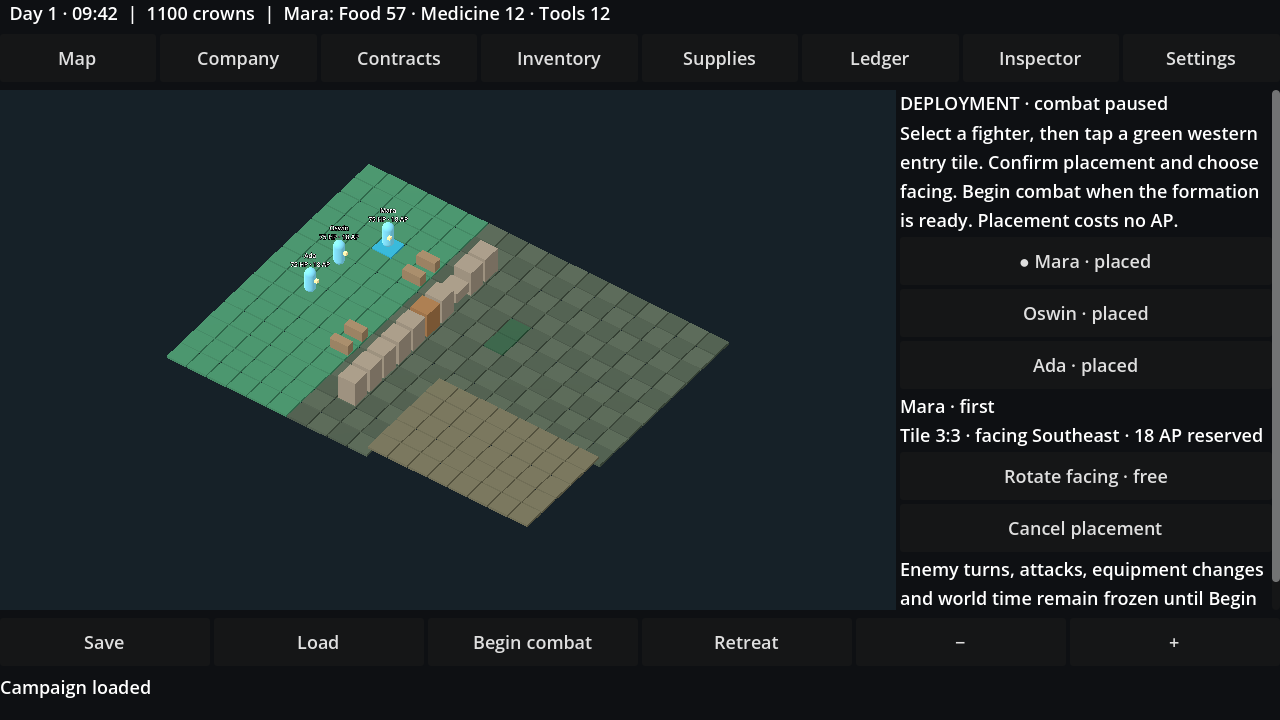
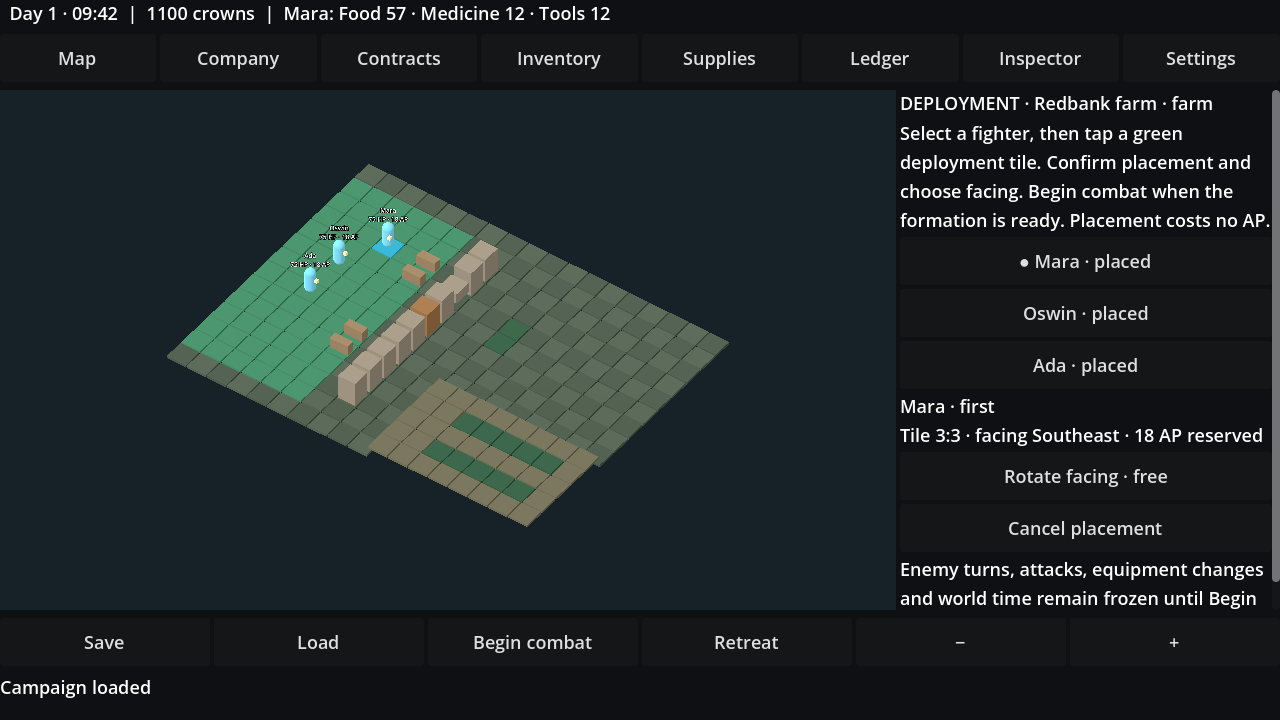
Add Phase 2 persistent sector layouts and authored deployment zones

diff --git a/QA_REPORT.md b/QA_REPORT.md
@@ -5,7 +5,8 @@
 | Check | Result |
 |---|---|
 | Godot 4.6.2 standard import / script execution | Passed |
-| Deterministic mechanical/integration suite | 291 passed, 0 failed |
+| Deterministic mechanical/integration suite | 365 passed, 0 failed |
+| Phase 2 maps | 74 new checks: four geometry signatures, spawn connectivity, formation save/load, legal company and garrison victories on each map, real door actions, retreat/re-entry loot/terrain, reinforcement collisions, metadata validation and legacy retention |
 | Phase 1 deployment | 39 new checks: placement/facing, AP/RNG/clock freeze, illegal actions, canonical saved formations, combined squads/full garrison, no-space recovery and legacy combat continuation |
 | Desktop rendered UI scenario | 0 failures; real buttons and selection callbacks, no battle-result injection |
 | First legal-action contract battle | Victory in 3 simulation-driver rounds for seed 731; casualties are retained |
@@ -23,7 +24,7 @@
 | Physical Android / emulator | Not run: no adb device or installed emulator available |
 | Remote CI | Configuration supplied; not dispatched or observed |
 
-Rendered strategic, inventory, supplies, garrison, contract-board and deployment screenshots were inspected. They show actual runtime geometry and controls. Controls use 48-unit minimum button heights and scrolling panels. These observations do not establish hardware touch comfort or safe-area support.
+Rendered strategic, inventory, supplies, garrison, contract-board, deployment and four authored-map screenshots were inspected. They show actual runtime geometry and controls. Controls use 48-unit minimum button heights and scrolling panels. These observations do not establish hardware touch comfort or safe-area support.
 
 ## Repairs verified during development
 
@@ -43,8 +44,10 @@ This is not comprehensive coverage of the master contract. Buildings, full fog, 
 
 UI automation runs on desktop and uses pointer events plus selection methods. The first walkthrough covers item management, local supply deposit/load and capture. The second starts with one existing enemy group placed a sector from Ashford as a documented test fixture; all recruitment, stocking, company travel, clock advances, garrison deployment, combat, aid and save/load then use normal controls. The existing group advances through real strategic AI; no victory or payment is injected. A third quiet-road fixture removes hostile forces and then uses normal controls to accept an escort/patrol, travel through ordered stops, save/load mid-route, deliver freight and return for patrol payment. The second also accepts and earns a settlement defence posting. Company and garrison contacts now use actual placement, save/load and Begin combat controls before fighting. Company facing is changed through its free setup control. This is not physical Android touch evidence. Android interruption and disk-failure injection remain untested. Schema 1→2→3 migrations, ownership/canonical profiles and basic geometry validation are checked; arbitrary malformed-data coverage is not exhaustive.
 
-The continuity suite verifies legal death/looting, retreat, save/re-entry and exact hostile identity/condition. The logistics/defence suite adds 66 checks for separate stores, local skills, conserved migration, garrison profiles and control/casualty consequences. It includes legal enemy attacks causing actual levy deaths, continued home defence after retreat, garrison-only legal-action victories, legacy undeployed reserves and deterministic incapacitation fixtures for capture/defeat edges. Existing rule coverage remains in the expanded 291-check suite. The contracts suite adds 44 checks for all six objective types, exact delivery and idempotency, ordered patrol return, saved road/combat progress, off-site target tracking, actual camp combat, garrison defence payments, ownership loss, deadline failure, withdrawal/defeat/disbanding freight loss, repeat posting cooldown and malformed objective data. A neutralized target remains pending while its actual battle awaits resolution.
+The continuity suite verifies legal death/looting, retreat, save/re-entry and exact hostile identity/condition. The logistics/defence suite adds 66 checks for separate stores, local skills, conserved migration, garrison profiles and control/casualty consequences. It includes legal enemy attacks causing actual levy deaths, continued home defence after retreat, garrison-only legal-action victories, legacy undeployed reserves and deterministic incapacitation fixtures for capture/defeat edges. Existing rule coverage remains in the expanded 365-check suite. The contracts suite adds 44 checks for all six objective types, exact delivery and idempotency, ordered patrol return, saved road/combat progress, off-site target tracking, actual camp combat, garrison defence payments, ownership loss, deadline failure, withdrawal/defeat/disbanding freight loss, repeat posting cooldown and malformed objective data. A neutralized target remains pending while its actual battle awaits resolution.
 
 Final acceptance: gates C/D pass for the delivered slice. Gate E is pending hardware validation and Gate F remains incomplete. Follow IMPLEMENTATION_PLAN.md before extending acceptance claims.
 
-Phase 1 changes only deployment on the existing encounter template. Phase 2 sector-specific map layouts have not been implemented or claimed. Older schema-1/2 tactical fixtures and an old-shape schema-3 active save resume combat without placement or AP resets. A blocked-entry fixture remains unconfirmed, survives save/load and can withdraw.
+Phase 1 changes only deployment on the existing encounter template. Phase 2 adds four facility archetypes and wilderness terrain fallbacks. A controlled three-fighter/two-hostile fixture and a separate three-levy defence each win through legal simulation actions on every facility archetype. Door persistence uses a documented adjacency fixture followed by the actual door action; unique loot is placed as a controlled ground-item fixture and then persists through real retreat, saving, travel and re-entry. Reinforcement tests retain existing hostile positions while allocating free authored spawns. Older schema-1/2 tactical fixtures and an old-shape schema-3 active save resume combat without placement or AP resets. A blocked-entry fixture remains unconfirmed, survives save/load and can withdraw.
+
+The rendered UI suite additionally opens each facility archetype as a controlled contact fixture, selects a legal tile through the 3D picker, confirms placement, saves/loads the formation, begins combat and executes a paid movement through normal controls. These gallery fixtures do not inject wins. Existing normal-control battles continue on farm and settlement layouts. Android hardware evidence remains unavailable.

diff --git a/IMPLEMENTATION_PLAN.md b/IMPLEMENTATION_PLAN.md
@@ -19,9 +19,9 @@ The production contract is larger than the delivered slice. Preserve working int
 
 1. **Android interaction/device gate.** Install supplied APK on mainstream hardware. Test touch select/confirm/cancel, scroll, two-finger pan/zoom, cutouts, pause/resume, OS interruption and low-memory behaviour. Measure frame pacing and input latency; record hardware and results. Device QA is currently an external blocker.
 2. **State model hardening — core ownership/logistics complete.** Item identities, condition/transfers, squad/sector supply stores and schema-1→2→3 migrations are implemented and verified. Conservation, local access, canonical references and basic terrain validation are in place. Remaining: typed assignment/financial/event records, broader malformed-data tests and disk-interruption injection.
-3. **Strategic battle continuity — core defence complete.** Persistent battlefields/enemies, adjacent withdrawal, encounter queueing, tactical levies and combined friendly squads are implemented and tested. Remaining: prisoner interactions beyond the captured flag, levy equipment management beyond their starting kit, fortification design and sector-specific geography.
+3. **Strategic battle continuity — core defence complete.** Persistent battlefields/enemies, adjacent withdrawal, encounter queueing, tactical levies and combined friendly squads are implemented and tested. Remaining: prisoner interactions beyond the captured flag, levy equipment management beyond their starting kit, fortification design and broader sector geography.
 4. **Job breadth — core objectives complete.** Capture, elimination, occupied camp assault, escort, patrol and settlement defence use actual state hooks with prerequisites, counters, failures, exclusive deadlines and idempotent ledger payments. Escort/patrol repost after one day. Remaining: independently targetable caravan cart/driver, broader procedural postings and route-risk balancing. Current escort is strategic freight tied to its squad. Existing campaigns retain their board; new worlds include Briar camp.
-5. **Tactical depth.** Phase 1 deployment is complete: validated western entry placement/facing, frozen setup, explicit confirmation and unconfirmed save/load for company and garrison forces. Phase 2 is next: sector-specific maps and authored entry zones, preserving local terrain/loot and checking deployment on each layout. Remaining tactical work includes disengage action, exploration/combat transition, AP carryover policy, injury locations/severity, equipment drawing/turn costs, distinct projectile ammunition, throwing items, explicit shield condition, directional geometry-derived cover, lighting and true terrain fog. Add roofs, interiors and persistent ground items.
+5. **Tactical depth.** Phase 1 deployment is complete: validated western entry placement/facing, frozen setup, explicit confirmation and unconfirmed save/load for company and garrison forces. Phase 2 is complete for four original facility archetypes and terrain-based wilderness: authored zones/spawn pools, persistent terrain/loot, legacy map retention and company/garrison combat on each layout. Further map work includes roofs, more settlement variants, fortification construction and authored directional approaches. Remaining tactical work includes disengage action, exploration/combat transition, AP carryover policy, injury locations/severity, equipment drawing/turn costs, distinct projectile ammunition, throwing items, explicit shield condition, directional geometry-derived cover, lighting and true terrain fog. Add roofs, interiors and persistent ground items.
 6. **AI depth.** Improve cover choice, failed pursuit, formations, ally defence, role coordination, sound prioritisation and morale behaviour. Add strategic resources, reinforcement budgets, threat response and patrol objectives. Current factions have simple daily movement; friendly defended sectors now use real tactical battles.
 7. **Scale and tests.** Profile 160×160 pathfinding, visibility and rendering. Replace repeated open-list sorting with a heap if measurements require it. Extend the ten scenarios to every mandatory rule and run multi-seed extended campaigns. Add hardware Android smoke CI when available.
 8. **Source audit/parity.** Inspect remaining source systems listed in SOURCE_AUDIT.md, document exact preserved-rule expectations and differences. Keep all new implementation independent. Obtain rights review before any commercial release.
@@ -31,10 +31,10 @@ The production contract is larger than the delivered slice. Preserve working int
 | Gate | Observed status |
 |---|---|
 | A — systems exist | Pass for implemented slice; incomplete across full contract |
-| B — individual verification | 291 passing assertions for covered rules; incomplete full mechanical matrix |
+| B — individual verification | 365 passing assertions for covered rules; incomplete full mechanical matrix |
 | C — integration | Pass for recruitment/equipment/travel/combat/payment/recovery/persistence slice |
 | D — playable game loop | Desktop normal-control scenario passes; second battle verified through legal rules driver |
 | E — mobile functional | APK produced and package/signature checked; device/touch verification outstanding, **not passed** |
 | F — full foundation | **Not passed**; mandatory systems above remain open |
 
-Phase 1 deployment is implemented and verified. Phase 2 sector-specific maps remains separate and unstarted; begin it when authorized. Never mark the full foundation complete by lowering its definition.
+Phase 1 deployment is implemented and verified. Phase 2 sector-specific maps is implemented and verified for the documented archetypes. Continue with the remaining tactical/AI depth or device gate; the full foundation remains incomplete. Never mark the full foundation complete by lowering its definition.

diff --git a/GAME_SPEC.md b/GAME_SPEC.md
@@ -20,9 +20,11 @@ Recruiting a levy costs 80 crowns and creates a persistent original spear/padded
 
 ## Tactical rules
 
-New contacts begin in a deployment phase. Default friendly positions are reviewed before combat. Placement is restricted to unblocked tiles in the western six columns, unoccupied except by the selected fighter and at least four Chebyshev tiles from every living enemy. Placement and facing (eight directions) cost no AP; actual profiles, resources, PRNG and strategic clock do not advance. Enemies are placed from remembered positions first; incoming friendlies never displace them. If the zone cannot fit everyone, the excess units remain unplaced, confirmation rejects, and the player can save or use the existing retreat rules. Company squads, combined local squads and home levies share the formation. Begin combat validates every living friendly, preserves initial AP and starts company round 1 without a bleeding tick. AI, attacks (including reactions), movement, equipment changes and knowledge refresh are blocked before confirmation. Confirmation is irreversible for that encounter. Unconfirmed phase/positions/facing/placement flags persist; active saves without a phase resume combat in place.
+New contacts begin in a deployment phase. Default friendly positions are reviewed before combat. Placement is restricted to unblocked tiles in the battlefield's authored deployment rectangles (the western six columns for older fields), unoccupied except by the selected fighter and at least four Chebyshev tiles from every living enemy. Placement and facing (eight directions) cost no AP; actual profiles, resources, PRNG and strategic clock do not advance. Enemies are placed from remembered positions first; incoming friendlies never displace them. If the zone cannot fit everyone, the excess units remain unplaced, confirmation rejects, and the player can save or use the existing retreat rules. Company squads, combined local squads and home levies share the formation. Begin combat validates every living friendly, preserves initial AP and starts company round 1 without a bleeding tick. AI, attacks (including reactions), movement, equipment changes and knowledge refresh are blocked before confirmation. Confirmation is irreversible for that encounter. Unconfirmed phase/positions/facing/placement flags persist; active saves without a phase resume combat in place.
 
-18×14 encounter template; logical grids support 160×160. Orthographic 3D, Compatibility renderer, MultiMesh floor, no per-tile physics. Wall, closed door and occupied destination block pathfinding; window blocks movement and passes sight. Diagonal corner cutting is rejected. Base movement 2 AP; hill costs 3, brush 4; rising one level adds 2; diagonal multiplies by 1.4 rounded up. Crouch adds 1, prone adds 3, run subtracts 1 (minimum 1), cautious adds 1. Preview and execution share step_cost.
+New fields are original deterministic 18×14 authored archetypes: settlement (market/workshop/garrison/training facilities), farm, mine and hostile camp. Wilderness uses road, forest, hills, marsh or grass variations. Settlement roads cost 1 AP per orthogonal step before actor modifiers; crops cost 4 and conceal 25; quarry costs 3 and is elevated; ore/stalls/tents supply cover. Buildings have wall footprints, walkable floor and openable doors, with no roofs or interior-mode transitions. Farm retains the original yard-wall/door relationships, with added crop rows. Mine uses a five-column entry; camp splits its entry into two rectangles. Other authored zones are stored explicitly. Every layout has a non-blocked hostile spawn pool; remembered hostile positions take precedence, and newcomers choose free authored spawns before a general fallback. Layout/version/zones/spawns are owned by sector.battlefield alongside tiles/ground and carried through active battles, saves and retreat. Existing fields without metadata keep their original geometry and legacy deployment strip; changing facility/ownership never regenerates a visited map.
+
+18×14 encounter grids; logical grids support 160×160. Orthographic 3D, Compatibility renderer, MultiMesh floor, no per-tile physics. Wall, closed door and occupied destination block pathfinding; window blocks movement and passes sight. Diagonal corner cutting is rejected. Base movement 2 AP; hill costs 3, brush 4; rising one level adds 2; diagonal multiplies by 1.4 rounded up. Crouch adds 1, prone adds 3, run subtracts 1 (minimum 1), cautious adds 1. Preview and execution share step_cost.
 
 Original AP formula: floor((10+agility/12+dexterity/24+experience×0.6) × (0.45+0.55×HP/maxHP) × (1−fatigue/180) × burden multiplier). Clamp 4..26; HP≤10 gives zero. Low morale reduces AP by 30%. Strength affects carrying capacity and melee damage; endurance affects travel/run exertion. Leadership supports daily morale and levy training. All listed base attributes have a simulation use.
 

diff --git a/BUILD_STATUS.md b/BUILD_STATUS.md
@@ -8,8 +8,8 @@ Engine: standard Godot 4.6.2 stable, official 71f334935. GDScript, Compatibility
 
 Verified on Windows with NVIDIA RTX 3050 Laptop GPU:
 
-- 291 mechanical/integration assertions pass with zero failures.
-- Phase 1 deployment is complete for the current encounter template: legal highlighted western placement, free facing changes, explicit combat confirmation, frozen actions/knowledge, company/combined/garrison formations and saved unconfirmed formations. Existing active saves resume combat. Phase 2 sector-specific maps has not started.
+- 365 mechanical/integration assertions pass with zero failures.
+- Phase 1 deployment is complete for the current encounter template: legal highlighted western placement, free facing changes, explicit combat confirmation, frozen actions/knowledge, company/combined/garrison formations and saved unconfirmed formations. Existing active saves resume combat. Phase 2 adds authored settlement, farm, mine and camp layouts plus terrain-based wilderness fallbacks. Geometry, deployment zones and hostile spawn pools persist with the sector.
 - Normal-control desktop UI scenarios pass company/item management, supply deposit/load, a capture contract battle and a separate stocked garrison defending while the company is elsewhere, with active/post-victory save/load.
 - Six objective types use authoritative travel/battle hooks, exclusive deadlines and exactly-once payments. Patrol/escort progress and freight survive save/load; road postings repeat after one day. Old boards are retained unchanged.
 - New rendered controls also fulfil a garrison defence posting and a saved escort/patrol route.
@@ -21,12 +21,13 @@ Verified on Windows with NVIDIA RTX 3050 Laptop GPU:
 - Squads carry separate food/medicine/tools. Local depots, transfers, split/merge conservation, farm output, supply burden and local medical care are verified. Remote resources confer no benefit.
 - Levies are persistent tactical defenders with gear, training, wounds, casualties and upkeep. Co-located squads deploy together; garrisons defend alone and continue after company withdrawal. Lost packs stay at the defeated sector.
 - Strategic contacts queue and stale travel callbacks are rejected.
+- Company and garrison legal-action victories pass on all four layout types. Rendered controls verify each layout, placement, reload and paid movement; doors and ground loot survive retreat/re-entry. Older battlefields retain their exact geometry.
 - Godot imports and runs. Signed Android debug export succeeds; APK inspected with SDK package tools and signature verification.
 
 No connected adb device or installed emulator was available. Android install, launch, physical touch, pause/resume under the OS and performance are **not verified**. No mobile FPS claim is made. The GitHub Actions workflow has not been run remotely.
 
-Production gaps include independently targetable escort carts, sector-specific maps, levy loadout management, full prisoner handling, exploration/combat transitions, deeper AI/knowledge/cover/lighting, transport modes, broader malformed-save/OS interruption coverage and scale profiling. See IMPLEMENTATION_PLAN.md for ordered acceptance work.
+Production gaps include independently targetable escort carts, levy loadout management, full prisoner handling, exploration/combat transitions, deeper AI/knowledge/cover/lighting, transport modes, broader malformed-save/OS interruption coverage and scale profiling. See IMPLEMENTATION_PLAN.md for ordered acceptance work.
 
 Build notes: the preinstalled executable was the .NET editor and requested .mono templates. A separate official standard 4.6.2 executable was downloaded into the workspace work/ directory. The initial standard export's blank validation error was fixed by enabling Android ETC2/ASTC texture import. Project has an original primitive icon; final export should run without the earlier missing-icon error. Debug signing uses existing local development tooling; signing files/passwords are not placed in the repository.
 
-Resume: read AGENTS.md and GAME_SPEC.md, run both suites, then begin Phase 2 sector-specific geography if no device is available. Full contract is preserved verbatim in PRODUCTION_CONTRACT.md.
+Resume: read AGENTS.md and GAME_SPEC.md, run both suites, then continue tactical/AI depth from IMPLEMENTATION_PLAN.md if no device is available. Full contract is preserved verbatim in PRODUCTION_CONTRACT.md.

diff --git a/README.md b/README.md
@@ -2,7 +2,7 @@
 
 Original Godot 4.6.2 / GDScript medieval mercenary strategy game. This is a **playable integrated foundation slice**, not the complete production contract. Primitive 3D tactical board, touch-oriented controls, 16×16 campaign, persistent company, six contract types and independent strategic forces.
 
-The current update adds pre-battle deployment: place friendly fighters in the highlighted western zone, choose facing and press Begin combat. Unconfirmed formations save/load; old active battles resume in combat. The preceding update added state-driven elimination, camp assault, escort, patrol and settlement-defence jobs alongside capture. The prior update added per-squad provisions, local depots, local medical care, persistent tactical levies and combined friendly-squad battles, on top of the item/continuity systems. Schema-1 and schema-2 saves migrate automatically to schema 3 without modifying the original file until you save. Old company supplies are divided between staffed squads; stock local depots before leaving levies to defend.
+The current update adds distinct settlement, farm, mine and camp battlefields with authored placement zones and persistent terrain/loot. Unvisited sectors choose their layout from facility and terrain; visited sectors retain their map. Pre-battle deployment lets you place friendly fighters in the highlighted zone, choose facing and press Begin combat. Unconfirmed formations save/load; old active battles resume in combat. The preceding update added state-driven elimination, camp assault, escort, patrol and settlement-defence jobs alongside capture. The prior update added per-squad provisions, local depots, local medical care, persistent tactical levies and combined friendly-squad battles, on top of the item/continuity systems. Schema-1 and schema-2 saves migrate automatically to schema 3 without modifying the original file until you save. Old company supplies are divided between staffed squads; stock local depots before leaving levies to defend.
 
 ## Play
 
@@ -46,4 +46,4 @@ The build script gates APK export on mechanics and UI checks, then verifies sign
 
 Read BUILD_STATUS.md, QA_REPORT.md and IMPLEMENTATION_PLAN.md for acceptance evidence and remaining work.
 
-Phase 1 uses the existing encounter template and one western entry strip, excluding blocked/occupied cells and cells within three tiles of living hostiles. Persistent hostile positions are retained before friendly placement. An entry zone without capacity leaves units unplaced and prevents confirmation; save or withdraw through a safe exit. Phase 2 will add sector-specific layouts and deployment-zone authoring.
+Phase 1 provides deployment controls. Phase 2 supplies authored entry zones for each map, excluding blocked/occupied cells and cells within three tiles of living hostiles. Persistent hostile positions are retained before friendly placement. An entry zone without capacity leaves units unplaced and prevents confirmation; save or withdraw through a safe exit. Settlements use roads, stalls and enclosed buildings; farms use a yard wall, crop rows and a raised field; mines use rock cuts, a storehouse and elevated quarry; camps use a palisade, gate, cover tents and two approach zones. These remain primitive layouts, without roofs or building-entry transitions. Existing saved battlefields are preserved; visit a previously unvisited sector or start a new campaign to see the new maps.

diff --git a/MECHANICS_PARITY.md b/MECHANICS_PARITY.md
@@ -4,6 +4,6 @@ This is an independent implementation inspired by JA2 system relationships. **Ex
 
 Verified: ability/condition-dependent AP; paid legal path execution; weighted sector routes; timestamped arrival/contact; chronological world events; distinct current knowledge and remembered enemy coordinates; company state persisting across battle and save/load; real economic consequences; unique equipment ownership and condition; persistent hostile casualties/injuries; sector doors and ground loot; adjacent retreat and queued contacts.
 
-Differences: original 4..26 AP formula; no AP carryover; all encounters begin in team turns; simplified LOS/cover; guard reactions rather than JA2 interrupt contests; original armour/damage; no firearm data; daily deterministic strategic group movement; original squad/depot provision rules; individual medieval levy profiles and original training thresholds rather than JA2 rank counters; six original contract objective types with strategic freight escort; one persistent encounter template with a fixed western deployment zone and explicit pre-combat confirmation. Any unimplemented mandatory rule remains open regardless of passing existing tests.
+Differences: original 4..26 AP formula; no AP carryover; all encounters begin in team turns; simplified LOS/cover; guard reactions rather than JA2 interrupt contests; original armour/damage; no firearm data; daily deterministic strategic group movement; original squad/depot provision rules; individual medieval levy profiles and original training thresholds rather than JA2 rank counters; six original contract objective types with strategic freight escort; four original facility layout archetypes plus terrain-based wilderness, with persistent authored deployment zones and explicit pre-combat confirmation. Any unimplemented mandatory rule remains open regardless of passing existing tests.
 
 SOURCE_AUDIT.md records source paths/functions actually inspected. QA_REPORT.md records the tests actually run. No claim of commercially cleared legal status or complete source-mechanical reconstruction is made.

diff --git a/AGENTS.md b/AGENTS.md
@@ -8,6 +8,7 @@ Godot 4.6.2 standard, GDScript, Compatibility renderer, Android landscape. Read 
 - Food/medicine/tools belong to squad.supplies or sector.supplies. Never reintroduce a remote global pool. Split/merge must conserve quantities; transfers require stationary co-location and controlled depots. Tactical first aid uses the actor's own pack or home depot.
 - Garrison strength is derived from capable uncaptured profiles, not a counter. Co-located squads and local levies share a tactical engagement. Levies remain home when mercenaries withdraw, and defeated packs stay at the battle sector.
 - Base stockpile access requires Ashford; character transfers require co-location, and combat transfers require adjacency plus 3 AP. Preserve IDs when equipping, transferring, looting or repairing.
+- Battlefields own layout/version/deployment_zones/enemy_spawns alongside tiles/ground. Preserve all metadata through field_state(); never regenerate a visited sector or attach new geometry to a legacy active save.
 - Rules belong in sim/, presentation in ui/. Commands reject invalid actions before spending resources.
 - New mechanics need deterministic behavioural checks. Run tests/run.gd and tests/ui_smoke.gd. An exit code alone is insufficient: reject SCRIPT ERROR and ERROR output.
 - Movement preview and execution must use the same step_cost. Displayed accuracy uses hit_chance before condition/fatigue mutations.

diff --git a/SOURCE_AUDIT.md b/SOURCE_AUDIT.md
@@ -27,3 +27,5 @@ The schema-3 update adds original squad/depot supply accounting and individual t
 The contract-board update is independent original design, using existing strategic arrival and battle-result hooks. No additional JA2 source was inspected or copied for these objectives. Named-force/camp/defence payments, ordered patrols and escorted strategic freight make no numeric or mission-data parity claim.
 
 Phase 1 deployment uses original placement and freeze rules on the existing template. No additional reference source was inspected or copied. The western entry strip, hostile separation, free setup facing and confirmation policy are independent design choices; no JA2 deployment parity is claimed. Sector-specific maps are reserved for Phase 2.
+
+Phase 2 battlefields are original authored tile geometry and spawn/deployment metadata. No additional reference material was inspected or copied. Layouts retain the existing independent movement/LOS/cover mechanics and persistent sector ownership; no JA2 map or deployment-data parity is claimed.
